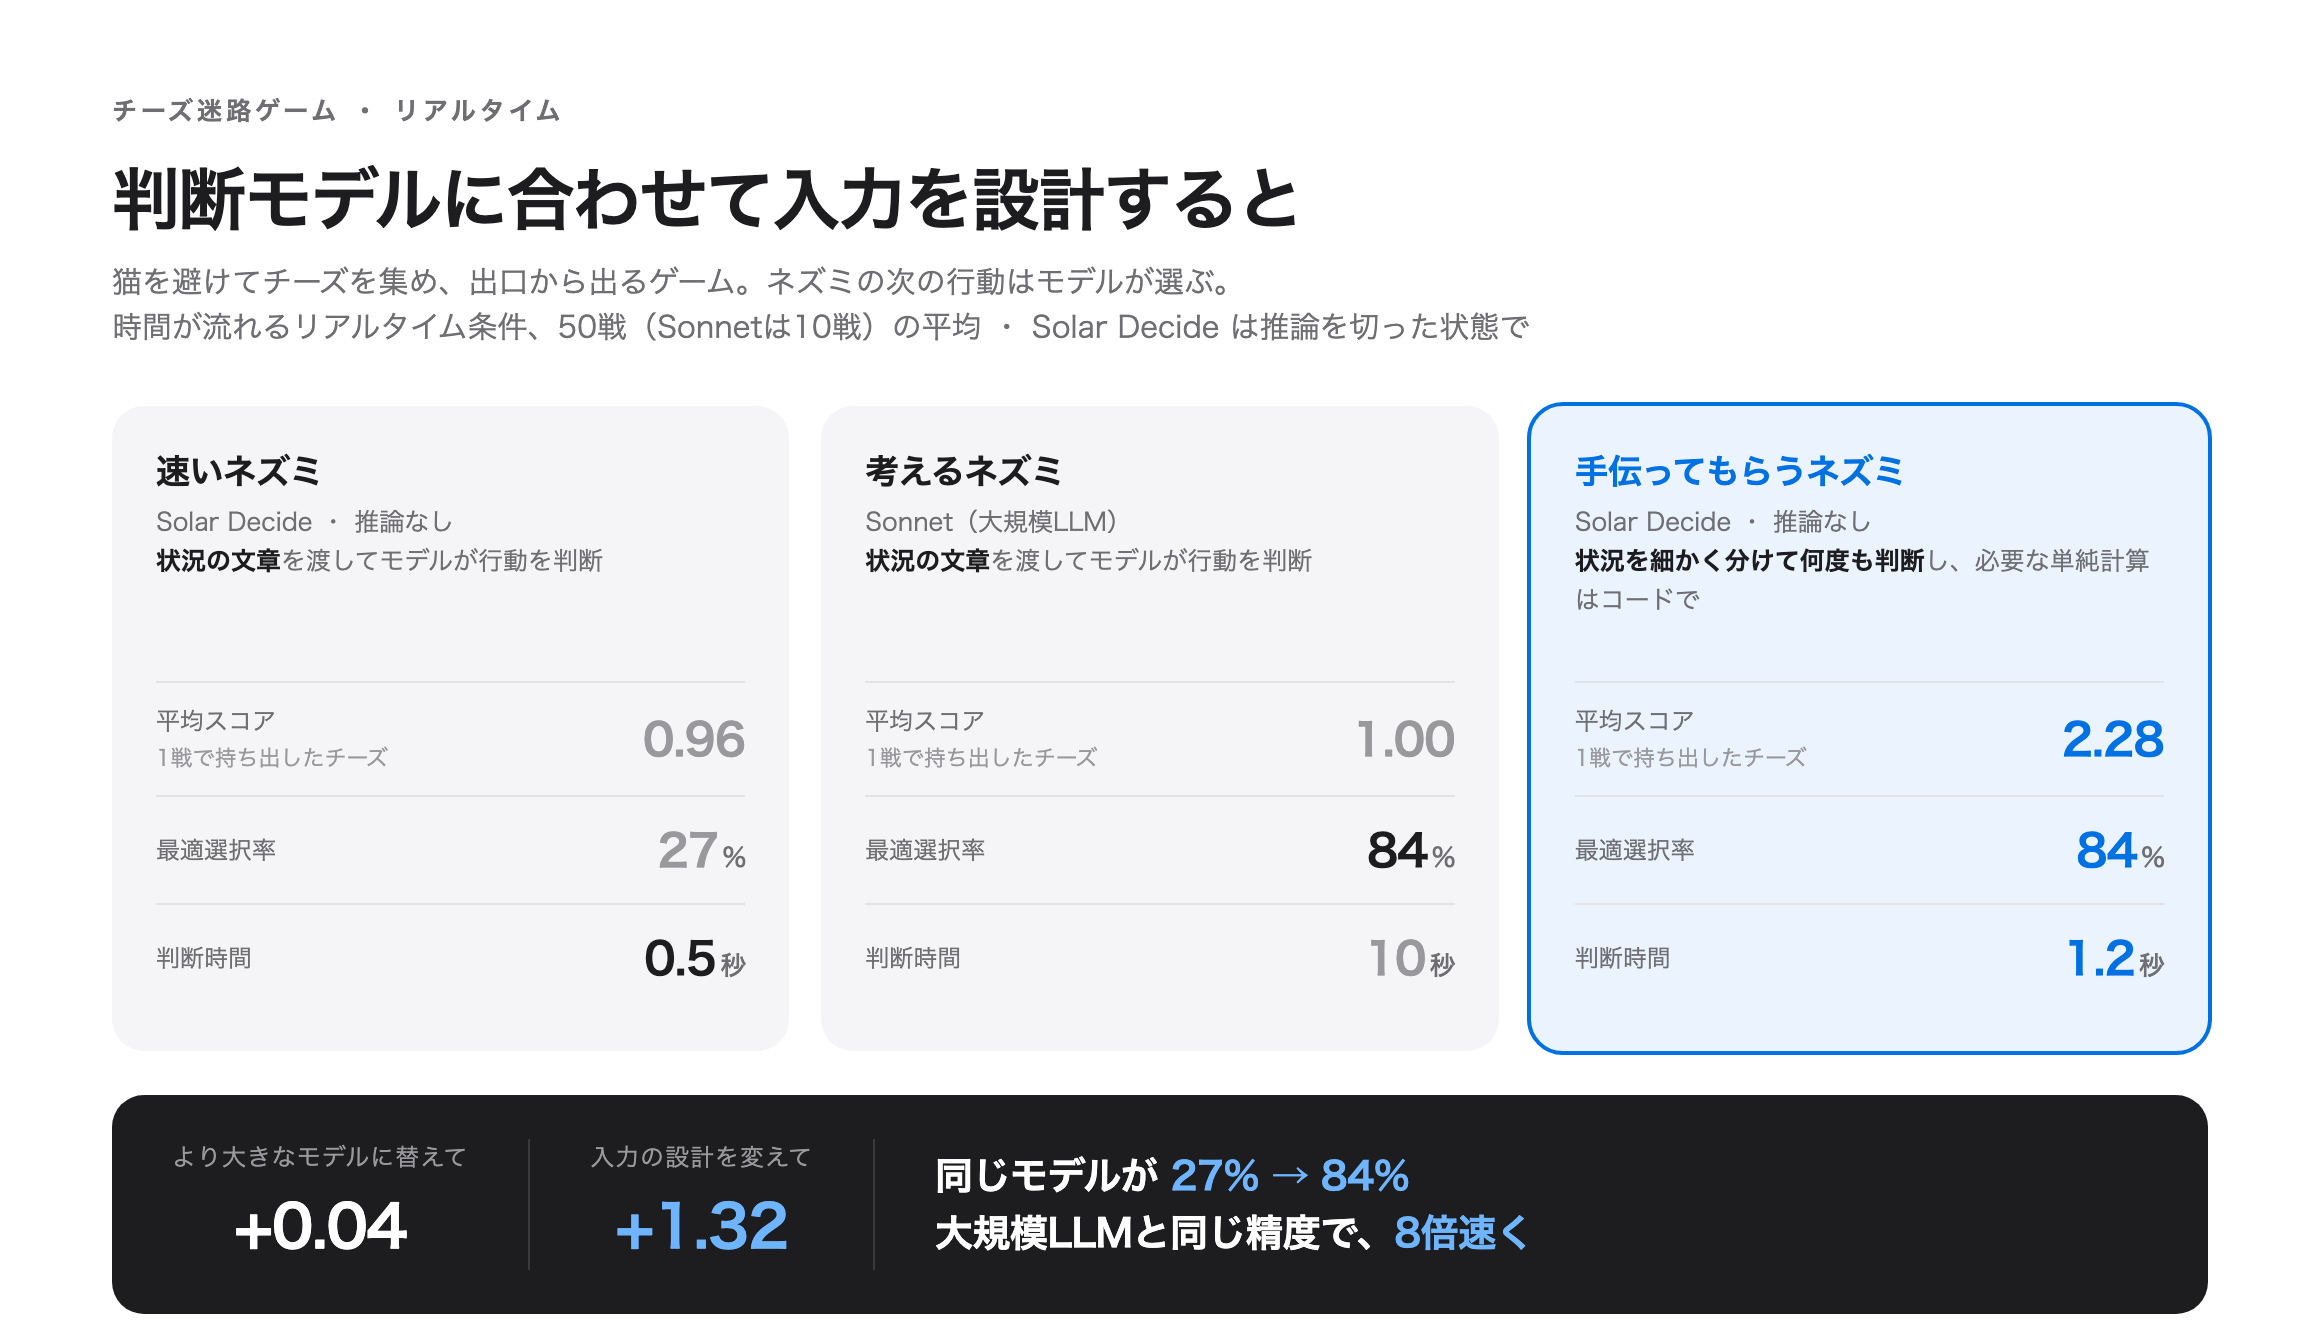
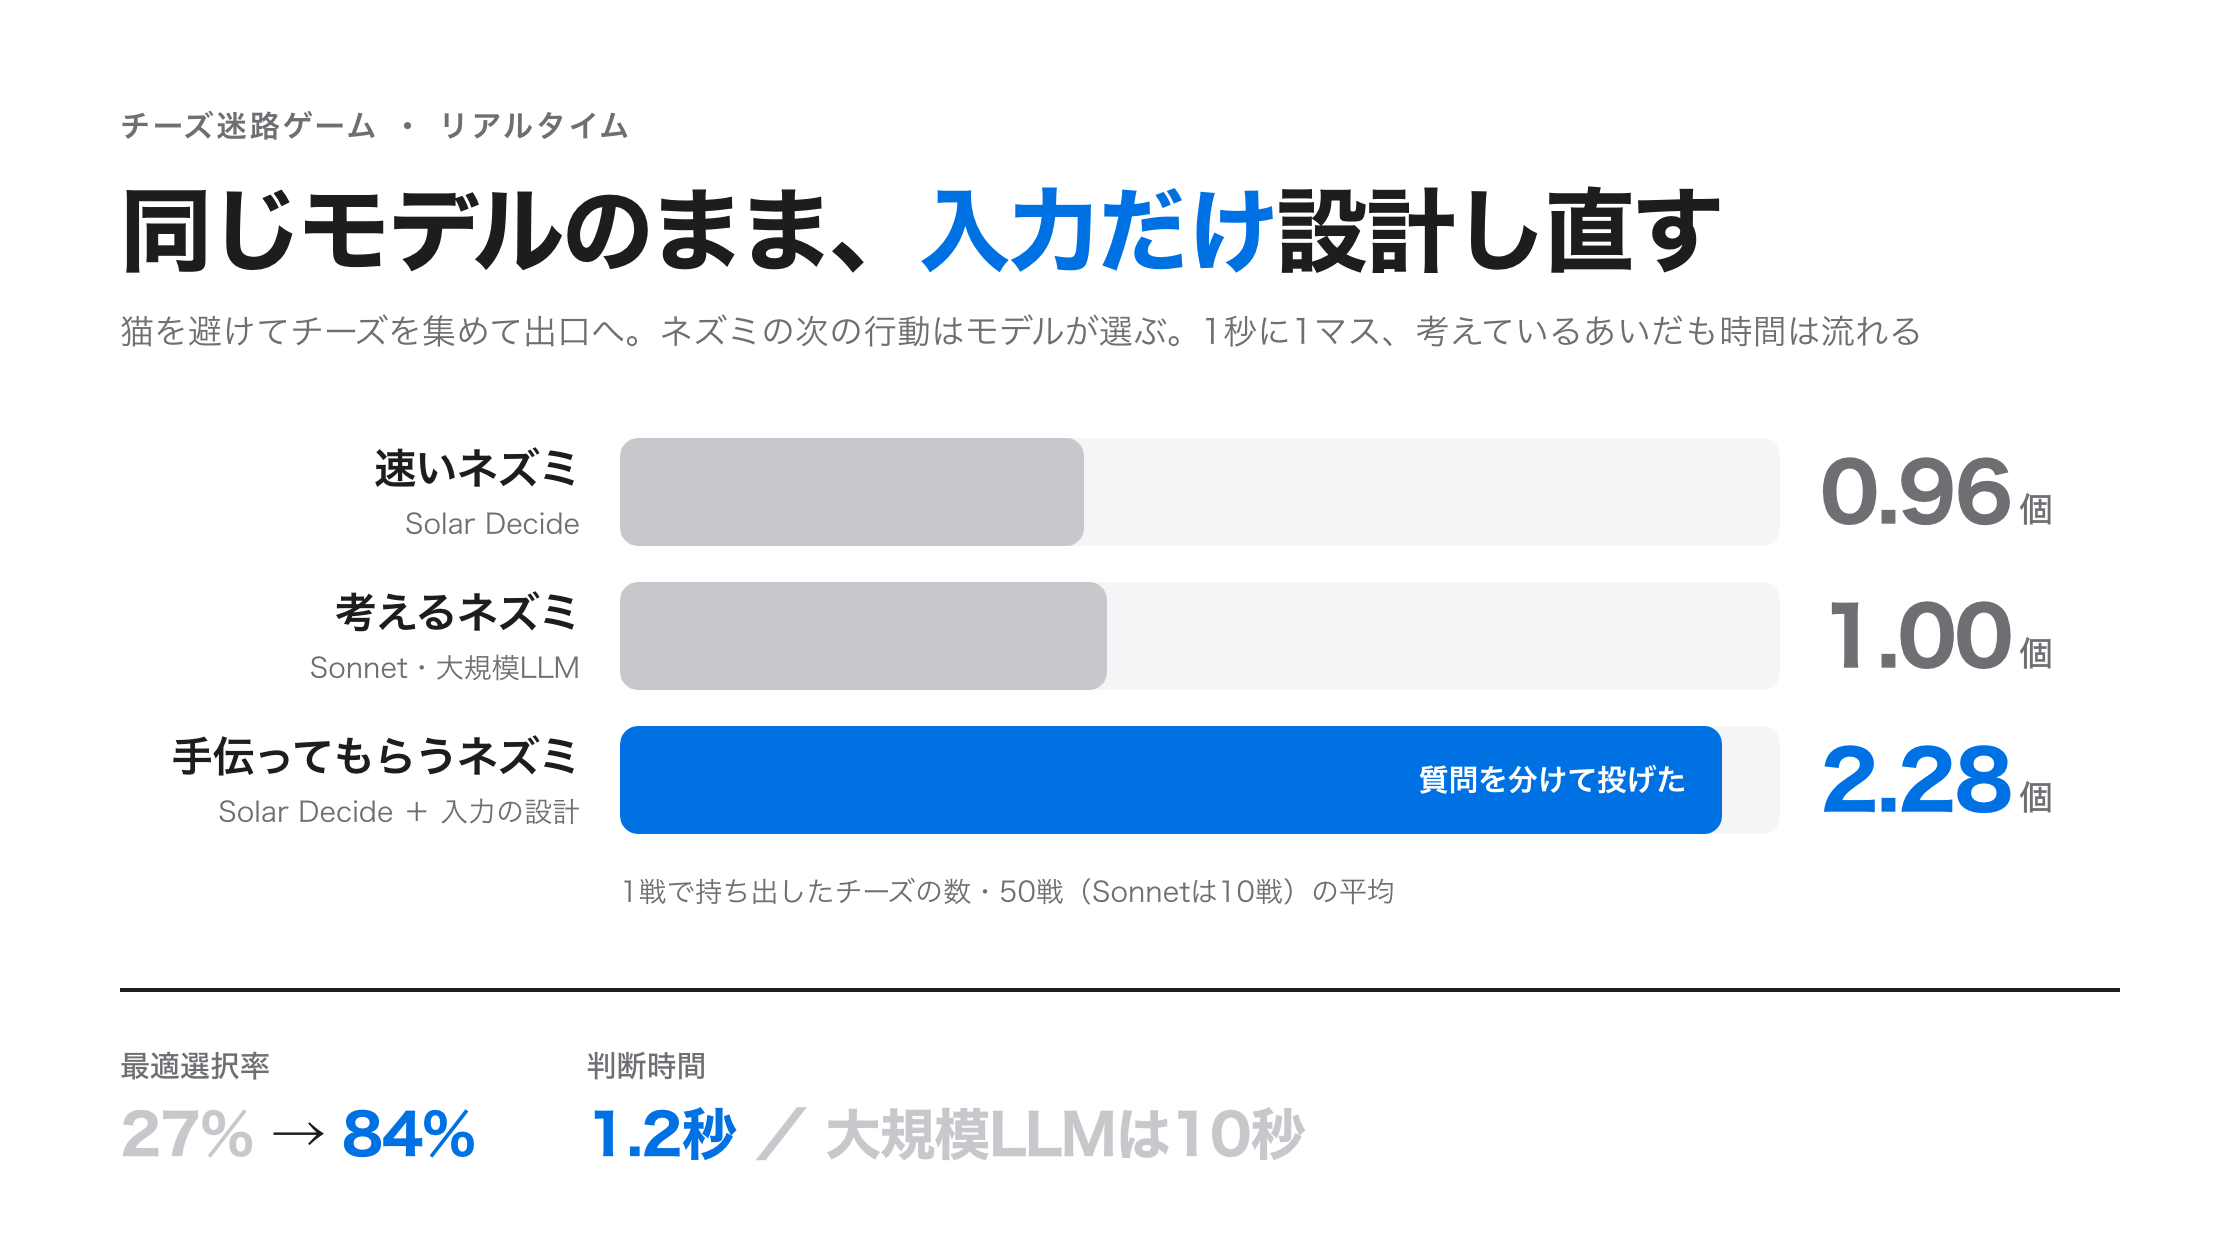
[기획자] 치즈 미로 편 히어로 재설계 (published: false 유지)
Claude-Session: https://claude.ai/code/session_01XzdnLQnuecguvtZK6rRFAz

diff --git a/articles/decision-model-input-design-ko.md b/articles/decision-model-input-design-ko.md
@@ -19,7 +19,7 @@ published: false
 
 이번에는 게임을 하나 만들어, **판단 모델과 대형 LLM에게 똑같은 과제를 시켜 봤습니다.**
 
-![실시간 조건 세 마리 비교. 평균 치즈 0.96 / 1.00 / 2.28개, 최적 선택률 27 / 84 / 84%, 판단 시간 0.5 / 10 / 1.2초.](/images/cheese-maze/cheese-maze-hero-ko.png)
+![실시간 조건의 평균 치즈 개수. 빠른 쥐 0.96개, 생각하는 쥐 1.00개, 도움받는 쥐 2.28개. 최적 선택률 27% → 84%, 판단 시간 1.2초.](/images/cheese-maze/cheese-maze-hero-ko.png)
 
 ---
 
